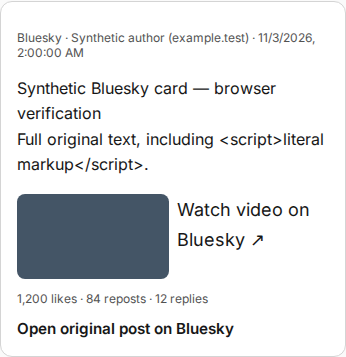
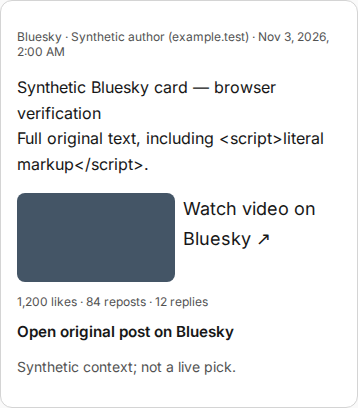
Repair Bluesky reader context browser verification

Changed region(s): [[0.0289, 0.0616, 0.9538, 0.6162], [0.0289, 0.6471, 0.7803, 0.9552], [0.0289, 0.0, 0.9827, 0.0308]]

diff --git a/scripts/smoke-bluesky-cards.ts b/scripts/smoke-bluesky-cards.ts
@@ -10,11 +10,16 @@ import { chromium } from 'playwright';
 async function main() {
   const browser = await chromium.launch();
   try {
-    for (const [name, width, height] of [
-      ['desktop', 1440, 1100],
-      ['mobile', 390, 844],
+    for (const [name, width, height, colorScheme] of [
+      ['desktop', 1440, 1100, 'light'],
+      ['mobile', 390, 844, 'light'],
+      ['desktop-dark', 1440, 1100, 'dark'],
+      ['mobile-dark', 390, 844, 'dark'],
     ] as const) {
-      const page = await browser.newPage({ viewport: { width, height } });
+      const page = await browser.newPage({
+        viewport: { width, height },
+        colorScheme,
+      });
       const errors: string[] = [];
       page.on('pageerror', (error) => errors.push(error.message));
       const snapshot = readerEditionSchema.parse(
@@ -63,7 +68,8 @@ async function main() {
       const replay = readerEditionSchema.parse(snapshot);
       assert.ok(
         replay.topics[0].posts.every(
-          (item) => !('whyItMatters' in item) && !('reasons' in item),
+          (item) =>
+            item.whyItMatters === post.whyItMatters && !('reasons' in item),
         ),
       );
 
@@ -107,6 +113,18 @@ async function main() {
       );
       assert.match(await cards.first().innerText(), /Full original text/);
       assert.equal(
+        await cards.first().locator('.post-context-text').innerText(),
+        post.whyItMatters,
+      );
+      assert.equal(
+        await cards.nth(1).locator('.post-context-text').innerText(),
+        post.whyItMatters,
+      );
+      assert.ok(
+        !(await cards.first().innerText()).includes(post.reasons[0]),
+        'Private selection reasons must stay out of reader cards',
+      );
+      assert.equal(
         await cards
           .first()
           .getByRole('link', { name: 'Open original post on Bluesky' })
@@ -145,7 +163,7 @@ async function main() {
       await page.close();
     }
     console.log(
-      'Synthetic Bluesky cards: desktop/mobile passed; no edition writes or inference.',
+      'Synthetic Bluesky cards: desktop/mobile light/dark passed; reader context visible, selection reasons private; no edition writes or inference.',
     );
   } finally {
     await browser.close();

diff --git a/PROGRESS.md b/PROGRESS.md
@@ -1,17 +1,3 @@
-## 2026-11-06: iteration 975 — stop requiring repetitive post notes
-
-- Started clean on main; health/alerts green, all 36 monitored sources healthy; no leftover work.
-- Read all four saved topics. Owner value: OpenAI and NBA cards repeat their original text in a second paragraph, contrary to the approved post-card spec.
-- Cause: the social editor requires a nonempty reader note for every selected post, even when the post explains itself.
-- Social editor v4 permits an empty note, requests useful nonrepeating context only, and retains concise English translations; rationale remains required and factual guards stay intact.
-- Selection/cache and orchestration tests retain self-explanatory posts without a note, alongside posts with context. Existing reader rendering already hides empty notes; no UI code changed.
-- X truncation is in supplied embed text, not local clipping; no new retrieval or source changes. No paid calls, budget/flag changes or saved-edition edits.
-- Verification: targeted social tests 24/24; pnpm format; pnpm lint:fix; pnpm check passed static checks/548 unit tests, then was terminated (143) during integration; standalone isolated integration rerun passed 224/224; pnpm build and final API rebuild passed; check-handbook 08-operations and git diff --check passed.
-- Node/Playwright replay: cleared one note in an intercepted saved response only; original text/link stayed visible and Japanese post context remained. Four desktop/mobile light/dark screenshots saved as post-optional-context-*; mobile light inspected.
-- Replay is synthetic note omission, not observed live editorial behavior; original saved API response unchanged. Handbook updated; SOURCES/NEEDS_FROM_HUMAN unchanged.
-- Archived iteration 961 to keep PROGRESS small. API/worker/docs/schema restarted; health/alerts green, sources healthy; final post-push confirmation follows.
-- Next: compare Nov 6 note repetition, Gaming picks and World/cost/Bluesky after 15:00 UTC; fresh X round after 21:00 UTC.
-
 ## 2026-11-06: iteration 976 — make the brief an overview
 
 - Started clean on main; health/database/Redis green, alerts clear, all 36 monitored sources healthy; no leftover work.
@@ -194,3 +180,14 @@
 - Verification results recorded below; no UI change requiring screenshots or handbook edits.
 - Next: Nov 6 edition/World/cost/Bluesky comparison after 15:00 UTC; no deploys 13:00–16:00; X round after 21:00 UTC.
 - Verification: pnpm format; pnpm lint:fix; pnpm check (555 unit/224 isolated integration tests passed); pnpm build; git diff --check.
+
+## 2026-11-06: iteration 990 — repair Bluesky reader verification
+
+- Started clean on main; health green, alerts clear, all 36 sources returning data; no leftover work.
+- Investigated the two retained ingestion failures: GamesRadar Nov 2 and DeepMind Nov 1; both have current successful collection. No active failure or retry needed.
+- Reader weakness remains World breadth, with its deployed fix awaiting publication. Found a concrete blocker to checking future Bluesky cards: browser replay still asserted that reader context was stripped. Reproduced its assertion failure.
+- Updated the replay to require visible saved context on cards with and without media, while keeping private selection reasons absent; added desktop/mobile dark coverage. Refreshed synthetic screenshots, never live selection evidence.
+- No runtime, source, budget, prompt, flag or saved-edition changes; no paid calls. SOURCES/NEEDS_FROM_HUMAN/handbook unchanged. Archived iteration 975 to retain the progress size limit.
+- Verification results follow. Next: Nov 6 World/full-AI/cost/Bluesky review after 15:00 UTC; no deploys 13:00–16:00; X round after 21:00 UTC.
+- Verification: pnpm format; pnpm lint:fix; pnpm check reported 555 unit/224 integration passed but chain exited 143 after coverage. Standalone pnpm test:integration passed 224/224 with exit 0; pnpm build passed.
+- pnpm exec tsx scripts/smoke-bluesky-cards.ts passed all four views; inspected mobile dark PNG. git diff --check passed. Restart/health confirmation follows.

diff --git a/docs/progress-archive/2026-11-06-iteration-975.md b/docs/progress-archive/2026-11-06-iteration-975.md
@@ -1,0 +1,13 @@
+## 2026-11-06: iteration 975 — stop requiring repetitive post notes
+
+- Started clean on main; health/alerts green, all 36 monitored sources healthy; no leftover work.
+- Read all four saved topics. Owner value: OpenAI and NBA cards repeat their original text in a second paragraph, contrary to the approved post-card spec.
+- Cause: the social editor requires a nonempty reader note for every selected post, even when the post explains itself.
+- Social editor v4 permits an empty note, requests useful nonrepeating context only, and retains concise English translations; rationale remains required and factual guards stay intact.
+- Selection/cache and orchestration tests retain self-explanatory posts without a note, alongside posts with context. Existing reader rendering already hides empty notes; no UI code changed.
+- X truncation is in supplied embed text, not local clipping; no new retrieval or source changes. No paid calls, budget/flag changes or saved-edition edits.
+- Verification: targeted social tests 24/24; pnpm format; pnpm lint:fix; pnpm check passed static checks/548 unit tests, then was terminated (143) during integration; standalone isolated integration rerun passed 224/224; pnpm build and final API rebuild passed; check-handbook 08-operations and git diff --check passed.
+- Node/Playwright replay: cleared one note in an intercepted saved response only; original text/link stayed visible and Japanese post context remained. Four desktop/mobile light/dark screenshots saved as post-optional-context-*; mobile light inspected.
+- Replay is synthetic note omission, not observed live editorial behavior; original saved API response unchanged. Handbook updated; SOURCES/NEEDS_FROM_HUMAN unchanged.
+- Archived iteration 961 to keep PROGRESS small. API/worker/docs/schema restarted; health/alerts green, sources healthy; final post-push confirmation follows.
+- Next: compare Nov 6 note repetition, Gaming picks and World/cost/Bluesky after 15:00 UTC; fresh X round after 21:00 UTC.

diff --git a/TASKS.md b/TASKS.md
@@ -39,6 +39,8 @@ Fix failures first. STEERING overrides older notes. [Prior detail through 846](d
 
 ## Latest verified step
 
+- [x] Bluesky reader verification (990): repaired stale context-stripping assertion; browser replay checks visible reader notes and private selection reasons across desktop/mobile light/dark. Synthetic screenshots refreshed; no runtime change.
+
 - [x] Thin Tech evidence (989): checked saved OpenSSH/Google News exploit coverage and ingestion fixtures; no dropped excerpt found. Destination enrichment remains deferred; scoped reader-value proposal in [ideas](docs/ideas.md), pending owner review and today's output.
 
 - [x] Reader post notes (988): removed the repeated “Digest context” heading; saved commentary remains visually separate below each original post.
